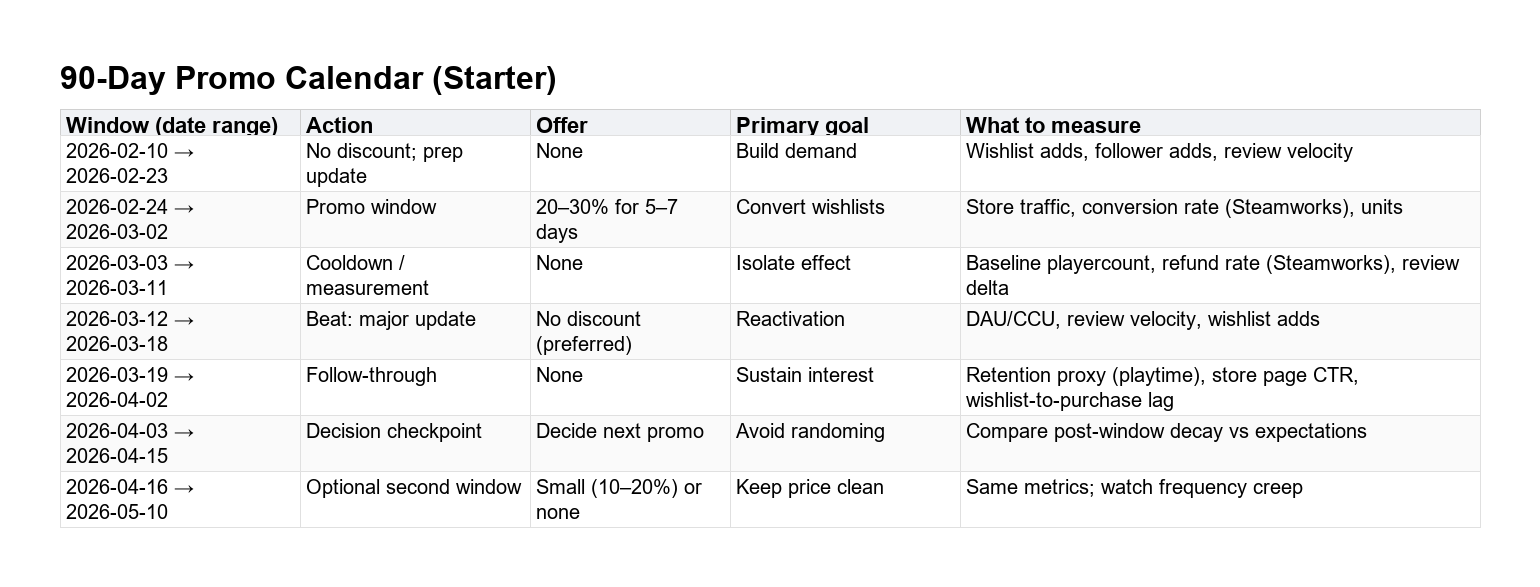
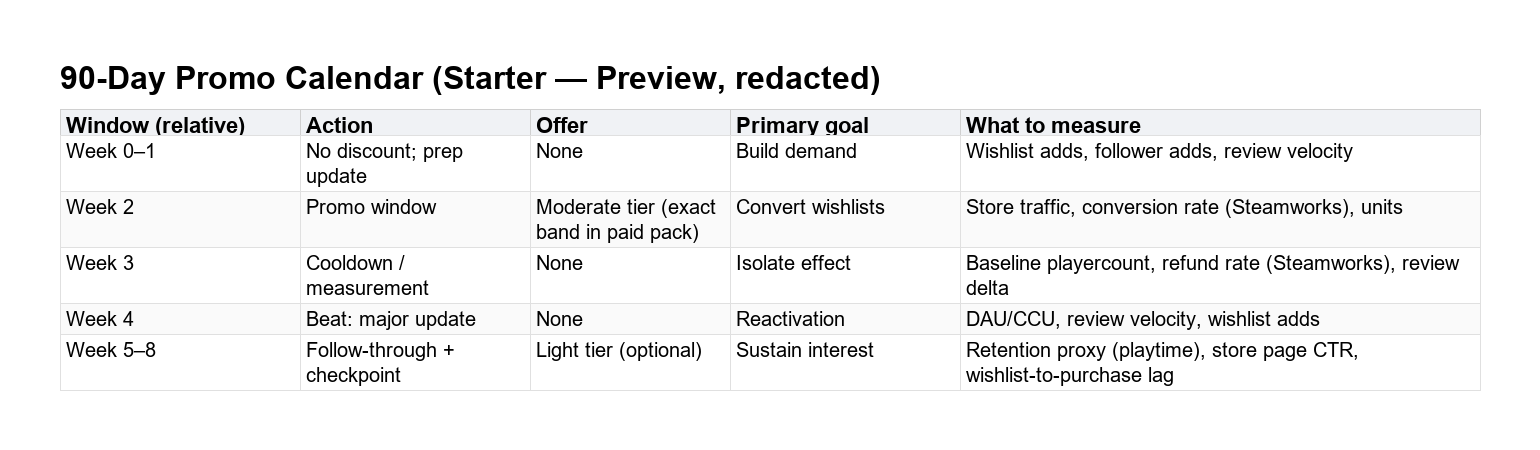
Redact public calendar and decision preview assets

Changed region(s): [[0.0312, 0.0933, 0.5922, 0.9022], [0.6234, 0.4356, 0.9662, 0.8711], [0.6234, 0.1867, 0.9351, 0.3733]]

diff --git a/scripts/render_worked_example_assets.py b/scripts/render_worked_example_assets.py
@@ -96,12 +96,49 @@ def wrap_text(draw: ImageDraw.ImageDraw, text: str, font: ImageFont.ImageFont, m
     return lines
 
 
-def render_decision_summary(text: str, risks_text: str) -> None:
+def parse_constraints(situation_text: str) -> List[str]:
+    lines = situation_text.splitlines()
+    constraints: List[str] = []
+    capture = False
+    for line in lines:
+        if "Constraints / cooldowns" in line:
+            capture = True
+            continue
+        if capture:
+            if line.strip().startswith("-"):
+                constraints.append(strip_md(line.strip().lstrip("- ").strip()))
+            elif line.strip().startswith("##"):
+                break
+    return constraints
+
+
+def parse_data_used(data_text: str) -> Tuple[List[str], List[str]]:
+    public: List[str] = []
+    steam: List[str] = []
+    current = None
+    for line in data_text.splitlines():
+        line = line.strip()
+        if line.startswith("**Public signals"):
+            current = "public"
+            continue
+        if line.startswith("**Steamworks exports required"):
+            current = "steam"
+            continue
+        if line.startswith("-"):
+            item = strip_md(line.lstrip("- ").strip())
+            if current == "public":
+                public.append(item)
+            elif current == "steam":
+                steam.append(item)
+    return public, steam
+
+
+def render_decision_summary(decision_text: str, risks_text: str, situation_text: str, data_text: str) -> None:
     title_font = load_font(36, bold=True)
     header_font = load_font(26, bold=True)
     body_font = load_font(22, bold=False)
 
-    lines = [ln.strip() for ln in text.splitlines() if ln.strip()]
+    lines = [ln.strip() for ln in decision_text.splitlines() if ln.strip()]
     goal_line = next((ln for ln in lines if ln.startswith("**Goal:**") or ln.startswith("Goal:")), "")
     bullets = [ln for ln in lines if ln.startswith("-")]
     bullets = [strip_md(ln.lstrip("- ").strip()) for ln in bullets]
@@ -122,7 +159,7 @@ def render_decision_summary(text: str, risks_text: str) -> None:
     draw = ImageDraw.Draw(tmp_img)
 
     content: List[Tuple[str, ImageFont.ImageFont]] = []
-    content.append(("Decision Summary (Synthetic Example)", title_font))
+    content.append(("Decision Summary (Preview — redacted)", title_font))
     content.append(("", body_font))
     if goal_line:
         content.append((strip_md(goal_line), body_font))
@@ -131,9 +168,21 @@ def render_decision_summary(text: str, risks_text: str) -> None:
     for b in bullets:
         content.append((f"• {b}", body_font))
     content.append(("", body_font))
+    content.append(("Why / constraints", header_font))
+    constraints = parse_constraints(situation_text)[:3]
+    for c in constraints:
+        content.append((f"• {c}", body_font))
+    content.append(("", body_font))
     content.append(("Risks + mitigations", header_font))
     for r in risk_pairs:
         content.append((f"• {r}", body_font))
+    content.append(("", body_font))
+    content.append(("Data needed", header_font))
+    public, steam = parse_data_used(data_text)
+    if public:
+        content.append((f"• Public: {public[0]}", body_font))
+    if steam:
+        content.append((f"• Steamworks: {steam[0]}", body_font))
 
     wrapped_lines: List[Tuple[str, ImageFont.ImageFont]] = []
     for text_line, font in content:
@@ -203,7 +252,7 @@ def render_calendar_table(text: str) -> None:
     draw = ImageDraw.Draw(img)
 
     y = margin
-    draw.text((margin, y), "90-Day Promo Calendar (Starter)", font=title_font, fill="black")
+    draw.text((margin, y), "90-Day Promo Calendar (Starter — Preview, redacted)", font=title_font, fill="black")
     y += title_height + 20
 
     x = margin
@@ -233,9 +282,13 @@ def render_calendar_table(text: str) -> None:
 
 def main() -> None:
     text = read_text(SOURCE_MD)
-    decision = extract_section(text, "Decision")
+    decision = extract_section(text, "Decision (Public Preview — redacted)")
     risks = extract_section(text, "Risks + mitigations")
-    schedule = extract_section(text, "Schedule (90-day promo calendar starter)")
+    situation = extract_section(text, "Situation")
+    data_used = extract_section(text, "Data used (public vs Steamworks-required)")
+    schedule = extract_section(text, "Schedule (90-day promo calendar starter — redacted)")
+    if not schedule:
+        schedule = extract_section(text, "Schedule (90-day promo calendar starter)")
 
     if not decision:
         raise SystemExit("Decision section not found in worked_example.md")
@@ -243,7 +296,7 @@ def main() -> None:
         raise SystemExit("Schedule section not found in worked_example.md")
 
     ASSETS_DIR.mkdir(parents=True, exist_ok=True)
-    render_decision_summary(decision, risks)
+    render_decision_summary(decision, risks, situation, data_used)
     render_calendar_table(schedule)
     print(f"Rendered {DECISION_OUT.relative_to(REPO_ROOT)}")
     print(f"Rendered {CALENDAR_OUT.relative_to(REPO_ROOT)}")

diff --git a/examples/worked_example.md b/examples/worked_example.md
@@ -1,4 +1,4 @@
-# Worked Example (Synthetic Indie Case)
+# Worked Example (Synthetic Indie Case — Public Preview)
 
 This is a realistic but synthetic case study. No proprietary or real game data is used.
 
@@ -7,33 +7,29 @@ This is a realistic but synthetic case study. No proprietary or real game data i
 - **Genre/shape:** Single-player indie (1–2h sessions), update-driven spikes
 - **Current price:** $14.99 USD
 - **Wishlist range:** ~8k–15k total wishlists (Steamworks-reported; not public)
-- **Upcoming beat date:** 2026-03-12 (planned “major update”)
+- **Upcoming beat date:** Planned “major update” (exact date in paid pack)
 - **Constraints / cooldowns (assumed):**
-  - A discount ran recently, so another promo must wait for Steam discount cooldown eligibility (confirm exact dates in Steamworks).
+  - A discount ran recently, so the next promo must wait for Steam cooldown eligibility (confirm exact dates in Steamworks).
   - Avoid stacking a discount too close to the update if you want clean measurement of update vs discount lift.
   - Keep a minimum cooldown between promos to avoid training “wait for sale” behavior.
 
-## Decision
+## Decision (Public Preview — redacted)
 **Goal:** Convert wishlists and re-activate lapsed interest without damaging price integrity.
 
-- **Recommended discount band:** **20–30%**
-- **Timing window:** **7–14 days before the beat date**, assuming cooldown eligibility (so players who notice the update can still convert during/after).
-- **Duration guidance:** **5–7 days**
-  - Long enough to capture weekend traffic + a couple weekdays.
-  - Short enough to limit post-sale decay and protect future pricing flexibility.
+- **Recommended discount band:** **Moderate tier (exact band in paid pack)**
+- **Timing window:** **Ahead of the beat**, after cooldown eligibility (exact window in paid pack).
+- **Duration guidance:** **Short window** sized to capture a weekend + 1–2 weekdays (exact duration in paid pack).
 
-## Schedule (90-day promo calendar starter)
+## Schedule (90-day promo calendar starter — redacted)
 Use this as a starter calendar; adjust once you confirm cooldown eligibility and your build readiness.
 
-| Window (date range) | Action | Offer | Primary goal | What to measure |
+| Window (relative) | Action | Offer | Primary goal | What to measure |
 | --- | --- | --- | --- | --- |
-| 2026-02-10 → 2026-02-23 | No discount; prep update | None | Build demand | Wishlist adds, follower adds, review velocity |
-| 2026-02-24 → 2026-03-02 | Promo window | 20–30% for 5–7 days | Convert wishlists | Store traffic, conversion rate (Steamworks), units |
-| 2026-03-03 → 2026-03-11 | Cooldown / measurement | None | Isolate effect | Baseline playercount, refund rate (Steamworks), review delta |
-| 2026-03-12 → 2026-03-18 | Beat: major update | No discount (preferred) | Reactivation | DAU/CCU, review velocity, wishlist adds |
-| 2026-03-19 → 2026-04-02 | Follow-through | None | Sustain interest | Retention proxy (playtime), store page CTR, wishlist-to-purchase lag |
-| 2026-04-03 → 2026-04-15 | Decision checkpoint | Decide next promo | Avoid randoming | Compare post-window decay vs expectations |
-| 2026-04-16 → 2026-05-10 | Optional second window | Small (10–20%) or none | Keep price clean | Same metrics; watch frequency creep |
+| Week 0–1 | No discount; prep update | None | Build demand | Wishlist adds, follower adds, review velocity |
+| Week 2 | Promo window | Moderate tier (exact band in paid pack) | Convert wishlists | Store traffic, conversion rate (Steamworks), units |
+| Week 3 | Cooldown / measurement | None | Isolate effect | Baseline playercount, refund rate (Steamworks), review delta |
+| Week 4 | Beat: major update | None | Reactivation | DAU/CCU, review velocity, wishlist adds |
+| Week 5–8 | Follow-through + checkpoint | Light tier (optional) | Sustain interest | Retention proxy (playtime), store page CTR, wishlist-to-purchase lag |
 
 ## Expected outcome (directional, not guaranteed)
 **What you should expect (hypothesis):**
@@ -47,10 +43,10 @@ Use this as a starter calendar; adjust once you confirm cooldown eligibility and
 
 ## Risks + mitigations
 - **Risk: Under-discounting (offer feels “meh”).**  
-  Mitigation: tighten timing (closer to peak interest) and keep duration short; only deepen discount if prior windows show weak conversion at 20–30%.
+  Mitigation: tighten timing (closer to peak interest) and use a pre-defined trigger for deepening the offer.
 
 - **Risk: Over-discounting (training wait-for-sale).**  
-  Mitigation: cap depth (start 20–30%), space promos, and use the update as a non-discount conversion beat.
+  Mitigation: cap depth, space promos, and use the update as a non-discount conversion beat.
 
 - **Risk: Cooldown eligibility mismatch.**  
   Mitigation: confirm eligibility dates in Steamworks first; if blocked, shift the promo earlier and keep the update clean.
